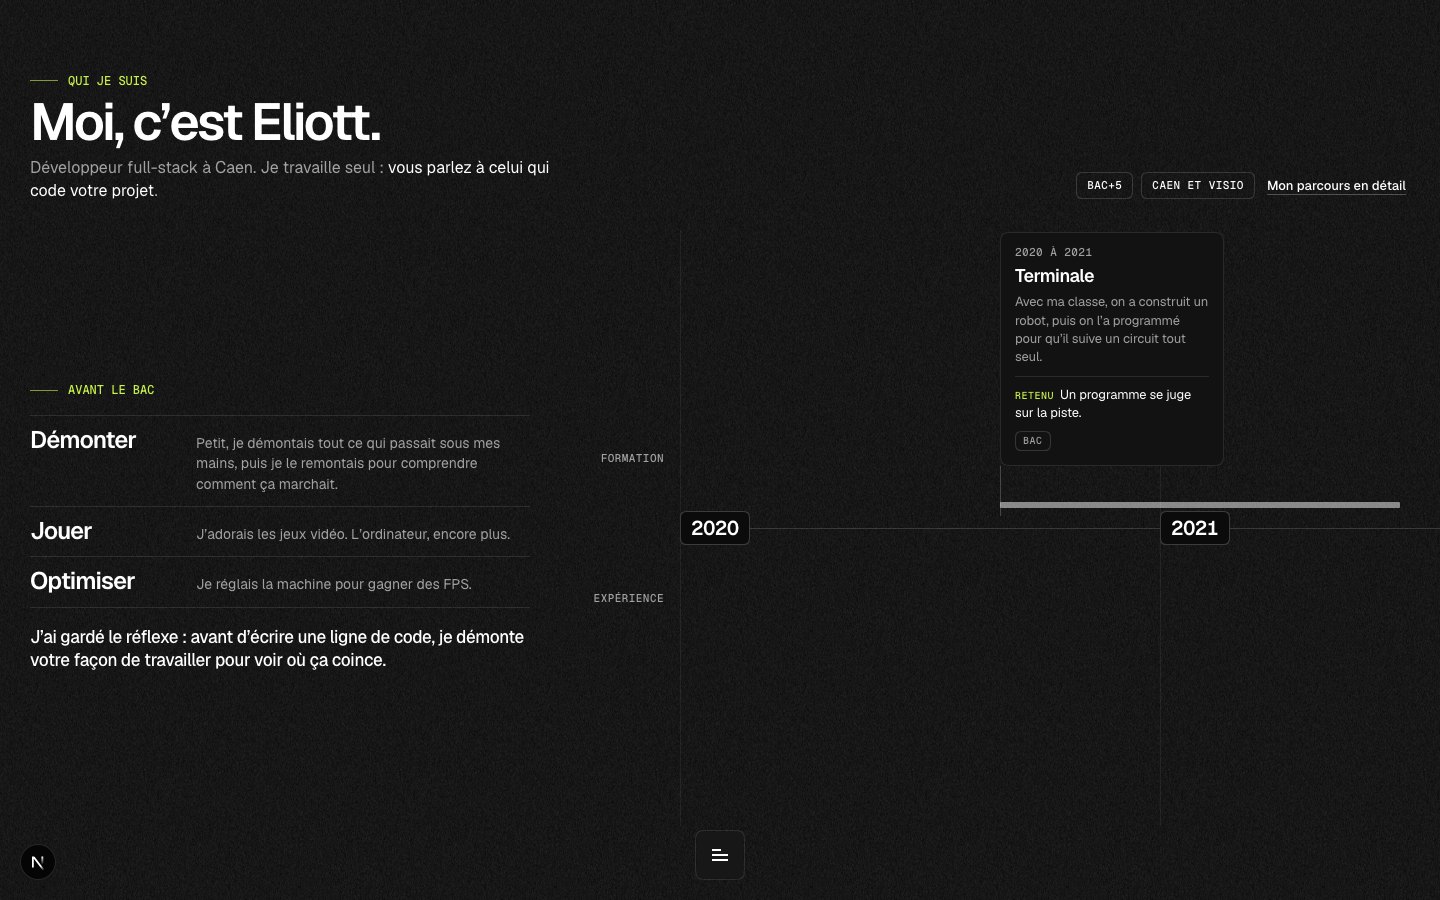
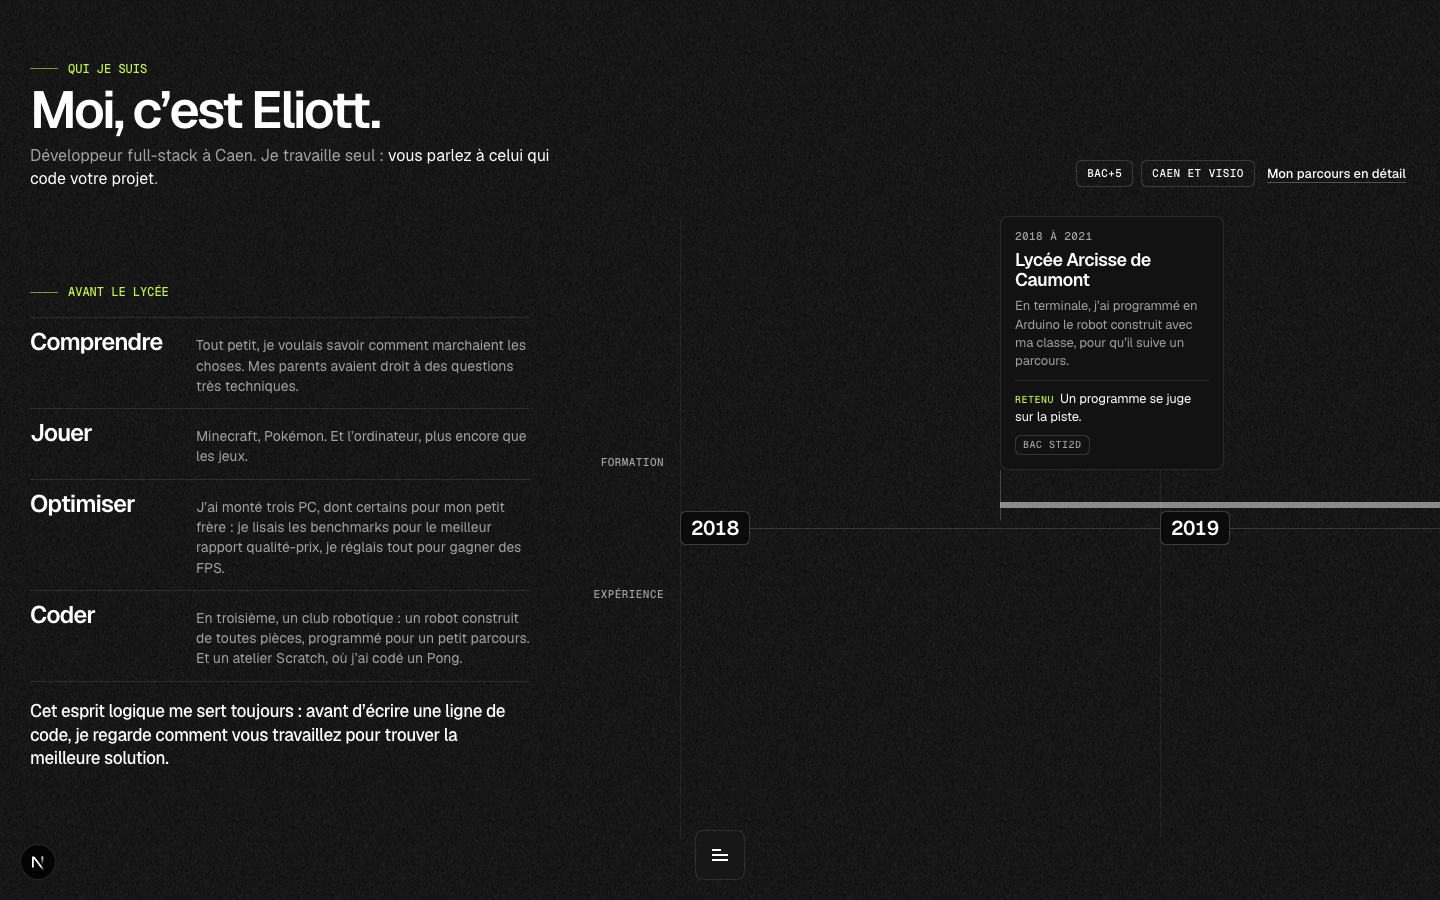
✨ Raconter le lycée, la troisième et les PC montés
Faits dictés par Eliott : lycée Arcisse de Caumont et bac STI2D sur
l'axe, robot programmé en Arduino, club robotique et Pong en Scratch,
trois PC montés, travail d'IA chez MeilleursBiens.

diff --git a/src/content/about.ts b/src/content/about.ts
@@ -133,7 +133,8 @@ export const aboutContent: AboutContent = {
             debut: "2024-09",
             fin: "2025-05",
             court: "Front-end",
-            recit: "Développeur front-end en alternance, à Courbevoie.",
+            recit: "Des interfaces pour l’outil des agents immobiliers, et surtout un support client par IA formé à leur métier et aux lois.",
+            retenu: "Une IA fiable se nourrit du métier.",
           },
           {
             periode: "Mars à juin 2024",
@@ -214,22 +215,24 @@ export const aboutContent: AboutContent = {
               "Photo et vidéo",
             ],
           },
-          /* AJOUTÉE LE 2026-11-27, fait donné par Eliott : en terminale, sa
-             classe a construit un robot et l’a programmé pour suivre un
-             circuit. Année déduite du BUT, entré en septembre 2021. Ni lycée
-             ni série : non donnés, à ne pas inventer. */
+          /* AJOUTÉE LE 2026-11-27, faits dictés par Eliott : seconde générale
+             avec l’option sciences de l’ingénieur, puis bac STI2D au lycée
+             Arcisse de Caumont, à Bayeux. En terminale, le robot de la classe,
+             c’est lui qui l’a programmé (Arduino) pour suivre un parcours.
+             Années déduites du BUT, entré en septembre 2021. */
           {
-            periode: "2020 à 2021",
-            structure: "Terminale",
-            role: "Projet du bac : un robot qui suit un circuit",
-            nature: "Bac",
-            debut: "2020-09",
+            periode: "2018 à 2021",
+            structure: "Lycée Arcisse de Caumont",
+            lieu: "Bayeux",
+            role: "Seconde option sciences de l’ingénieur, puis bac STI2D",
+            nature: "Bac STI2D",
+            debut: "2018-09",
             fin: "2021-07",
-            court: "Le robot du bac",
-            recit: "Avec ma classe, on a construit un robot, puis on l’a programmé pour qu’il suive un circuit tout seul.",
+            court: "Bac STI2D, le robot du bac",
+            recit: "En terminale, j’ai programmé en Arduino le robot construit avec ma classe, pour qu’il suive un parcours.",
             retenu: "Un programme se juge sur la piste.",
-            apport: "Construire une machine en équipe, puis la programmer pour qu’elle suive seule son circuit.",
-            domaines: ["Robotique", "Programmation", "Travail en équipe"],
+            apport: "Les sciences de l’ingénieur, et un robot programmé en Arduino pour qu’il suive seul un parcours.",
+            domaines: ["Sciences de l’ingénieur", "Arduino", "Robotique"],
           },
         ],
       },

diff --git a/src/content/home.ts b/src/content/home.ts
@@ -195,21 +195,22 @@ export const homeContent: HomeContent = {
     faits: ["Bac+5", "Caen et visio"],
     lignes: { formation: "Formation", experience: "Expérience", enCours: "Aujourd’hui", retenu: "Retenu" },
     /*
-     * AVANT LE BAC (2026-11-27, demande d’Eliott : que sa personnalité
-     * ressorte). Faits donnés par lui, tels quels : l’informatique le
-     * passionnait, il adorait les jeux vidéo, il aimait optimiser (gagner des
-     * FPS), il démontait et remontait les objets pour comprendre. Le fil relie
-     * ce gamin à l’argument du site : regarder comment vous travaillez avant
-     * d’écrire du code. Aucun nom, aucune date ni aucun jeu inventé.
+     * AVANT LE LYCÉE (2026-11-27, demande d’Eliott : que sa personnalité
+     * ressorte). Faits dictés par lui, tels quels : les questions techniques à
+     * ses parents, Minecraft et Pokémon, trois PC montés (benchmarks, rapport
+     * qualité-prix, configs, FPS), le club robotique et l’atelier Scratch de
+     * troisième (un Pong), l’esprit logique qui lui sert pour ses clients.
+     * Le lycée est sur l’axe. Ni nom de parent ni de frère.
      */
     prologue: {
-      titre: "Avant le bac",
+      titre: "Avant le lycée",
       items: [
-        { mot: "Démonter", texte: "Petit, je démontais tout ce qui passait sous mes mains, puis je le remontais pour comprendre comment ça marchait." },
-        { mot: "Jouer", texte: "J’adorais les jeux vidéo. L’ordinateur, encore plus." },
-        { mot: "Optimiser", texte: "Je réglais la machine pour gagner des FPS." },
+        { mot: "Comprendre", texte: "Tout petit, je voulais savoir comment marchaient les choses. Mes parents avaient droit à des questions très techniques." },
+        { mot: "Jouer", texte: "Minecraft, Pokémon. Et l’ordinateur, plus encore que les jeux." },
+        { mot: "Optimiser", texte: "J’ai monté trois PC, dont certains pour mon petit frère : je lisais les benchmarks pour le meilleur rapport qualité-prix, je réglais tout pour gagner des FPS." },
+        { mot: "Coder", texte: "En troisième, un club robotique : un robot construit de toutes pièces, programmé pour un petit parcours. Et un atelier Scratch, où j’ai codé un Pong." },
       ],
-      fil: "J’ai gardé le réflexe : avant d’écrire une ligne de code, je démonte votre façon de travailler pour voir où ça coince.",
+      fil: "Cet esprit logique me sert toujours : avant d’écrire une ligne de code, je regarde comment vous travaillez pour trouver la meilleure solution.",
     },
     cta: { label: "Mon parcours en détail", href: "/a-propos" },
   },

diff --git a/src/components/sections/moi/FriseParcours.tsx b/src/components/sections/moi/FriseParcours.tsx
@@ -110,7 +110,7 @@ function Piste({
   const anCourant = annees[Math.min(annees.length - 1, Math.floor(aujourdhui * annees.length))];
   return (
     <div
-      className="frise-piste relative flex-none [--an:440px] [--barre-ecart:26px] [--carte:204px] [--rail:24px] [--rangee:236px] desktop:[--an:480px] desktop:[--carte:224px]"
+      className="frise-piste relative flex-none [--an:440px] [--barre-ecart:26px] [--carte:204px] [--rail:24px] [--rangee:300px] desktop:[--an:480px] desktop:[--rangee:252px] desktop:[--carte:224px]"
       style={style}
     >
       {/* Une colonne par année : un filet qui traverse toute la piste. */}
@@ -136,7 +136,7 @@ function Piste({
       </div>
 
       {/* L'axe des années, les barres de durée de part et d'autre. */}
-      <div className="relative h-[76px]">
+      <div className="relative h-[68px]">
         <span aria-hidden className="absolute inset-x-0 top-1/2 h-px bg-white/15" />
         {remplissage ? (
           <motion.span
